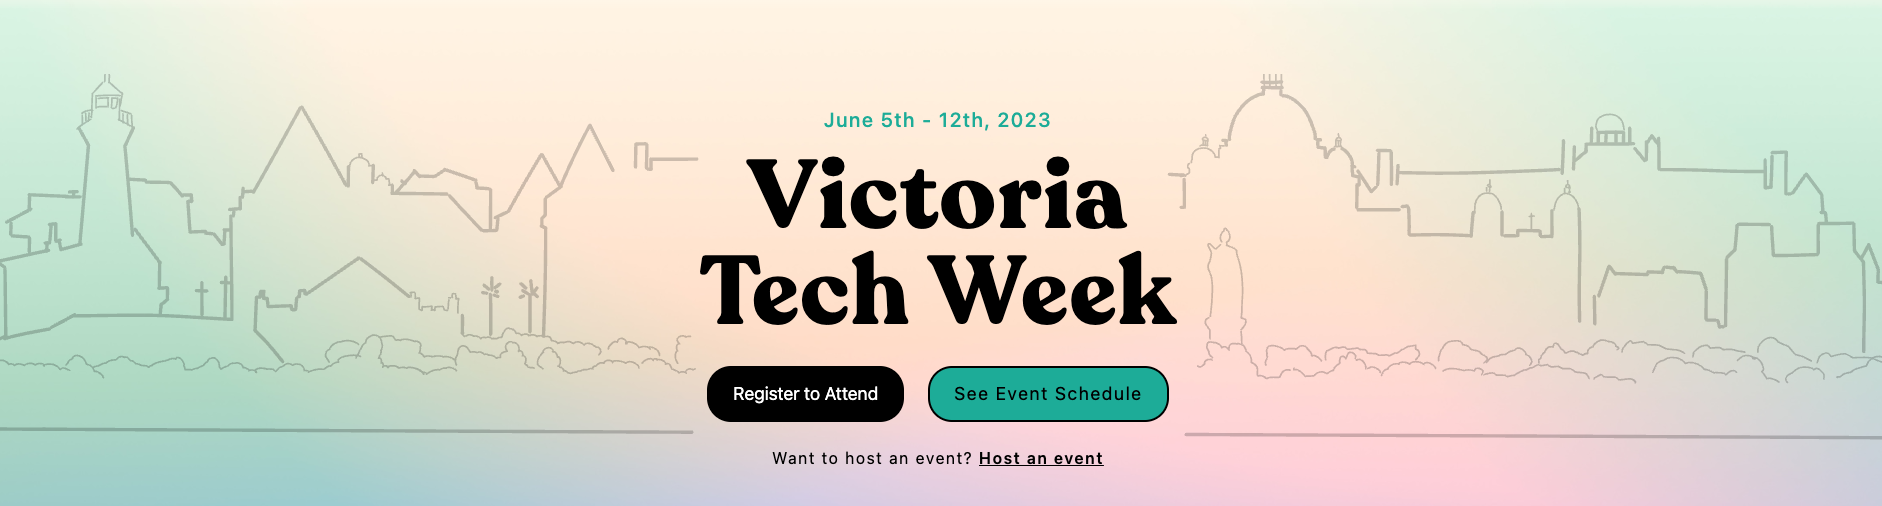
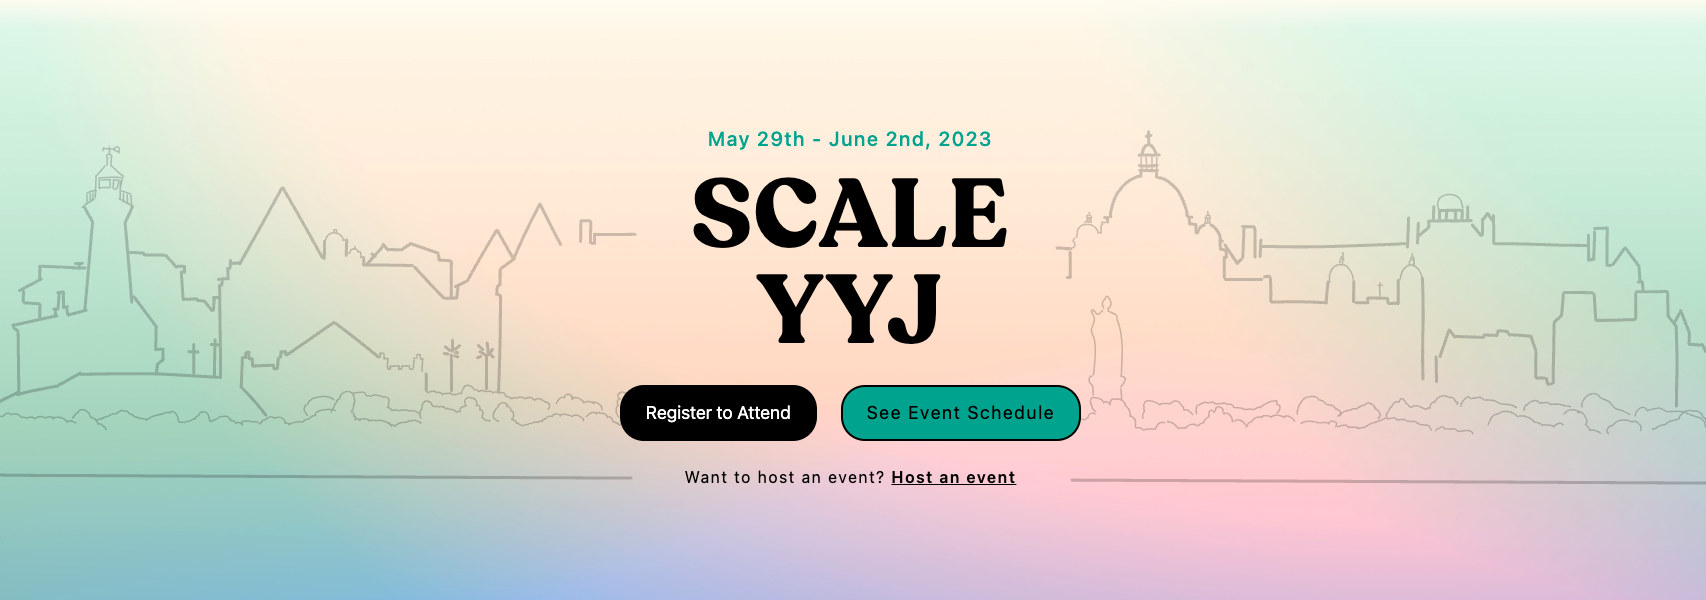
added in new twitter handle

diff --git a/pages/_app.js b/pages/_app.js
@@ -49,10 +49,10 @@ function MyApp({ Component, pageProps }) {
               alt: "Scale YYJ",
               type: "image/png",
             },
-          ],
+          ],ß
         }}
         twitter={{
-          handle: "@victechweek",
+          handle: "@scaleyyj",
           cardType: "summary_large_image",
         }}
         additionalMetaTags={[

diff --git a/components/container/footer.jsx b/components/container/footer.jsx
@@ -22,7 +22,7 @@ export default function Footer() {
         </div>
         <div className="flex flex-row items-center gap-4">
           <a
-            href="https://twitter.com/victechweek"
+            href="https://twitter.com/scaleyyj"
             rel="noreferrer"
             target="_blank"
             className="text-black hover:text-gray-700"
